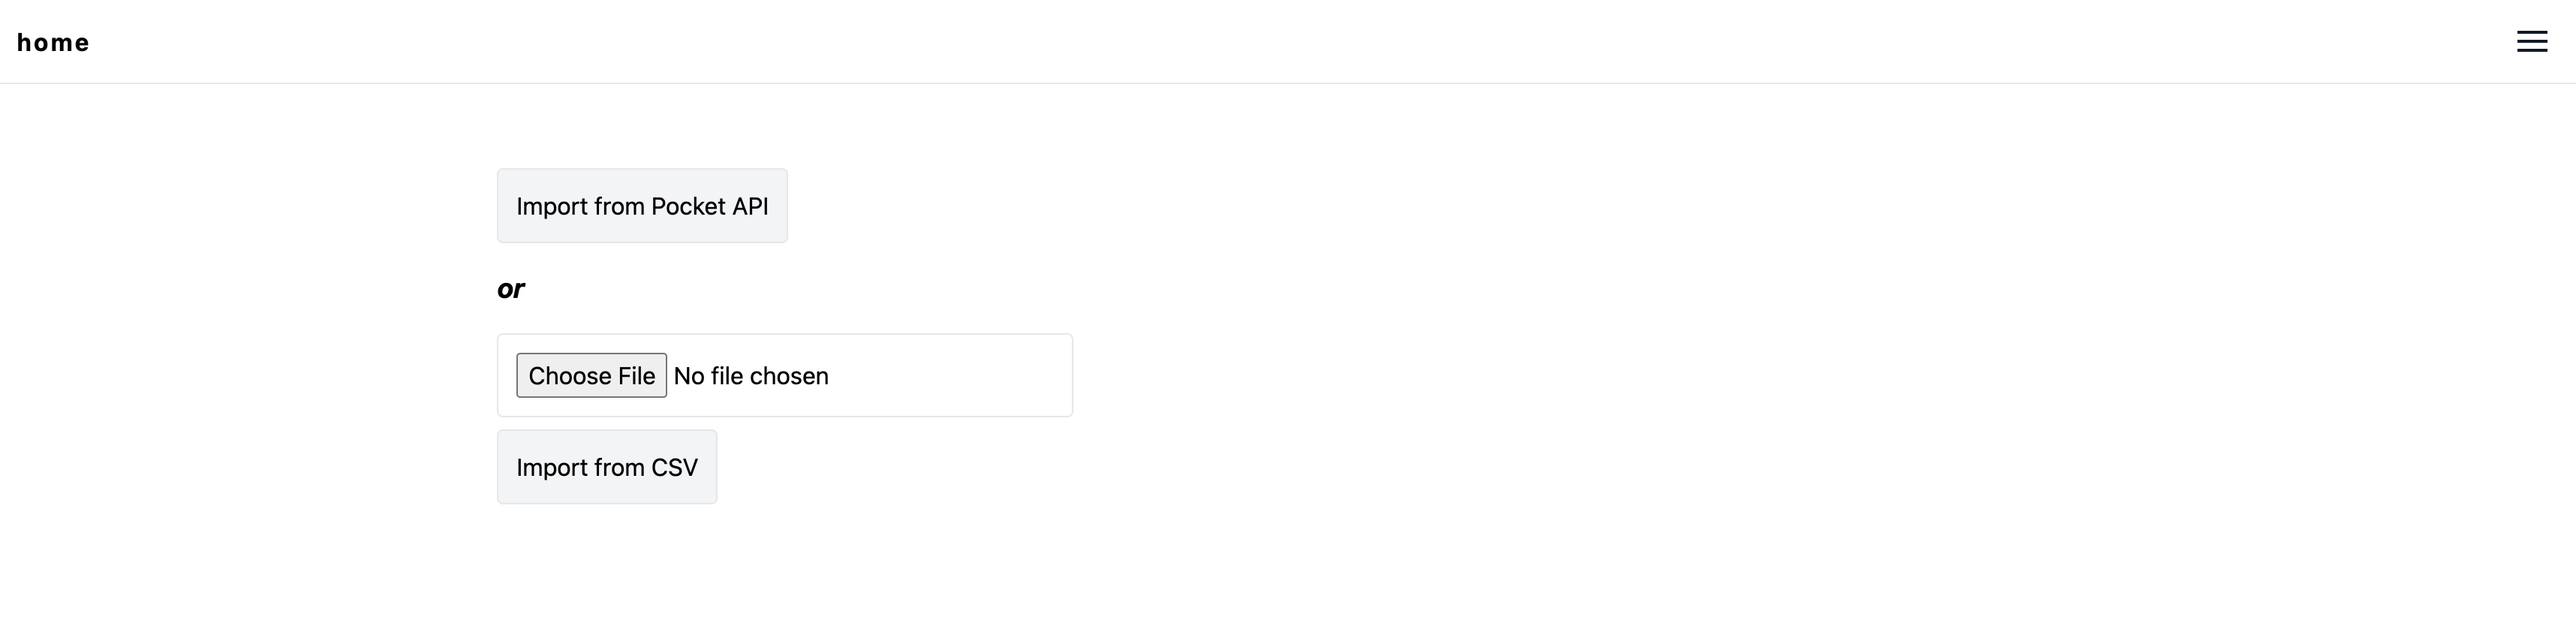
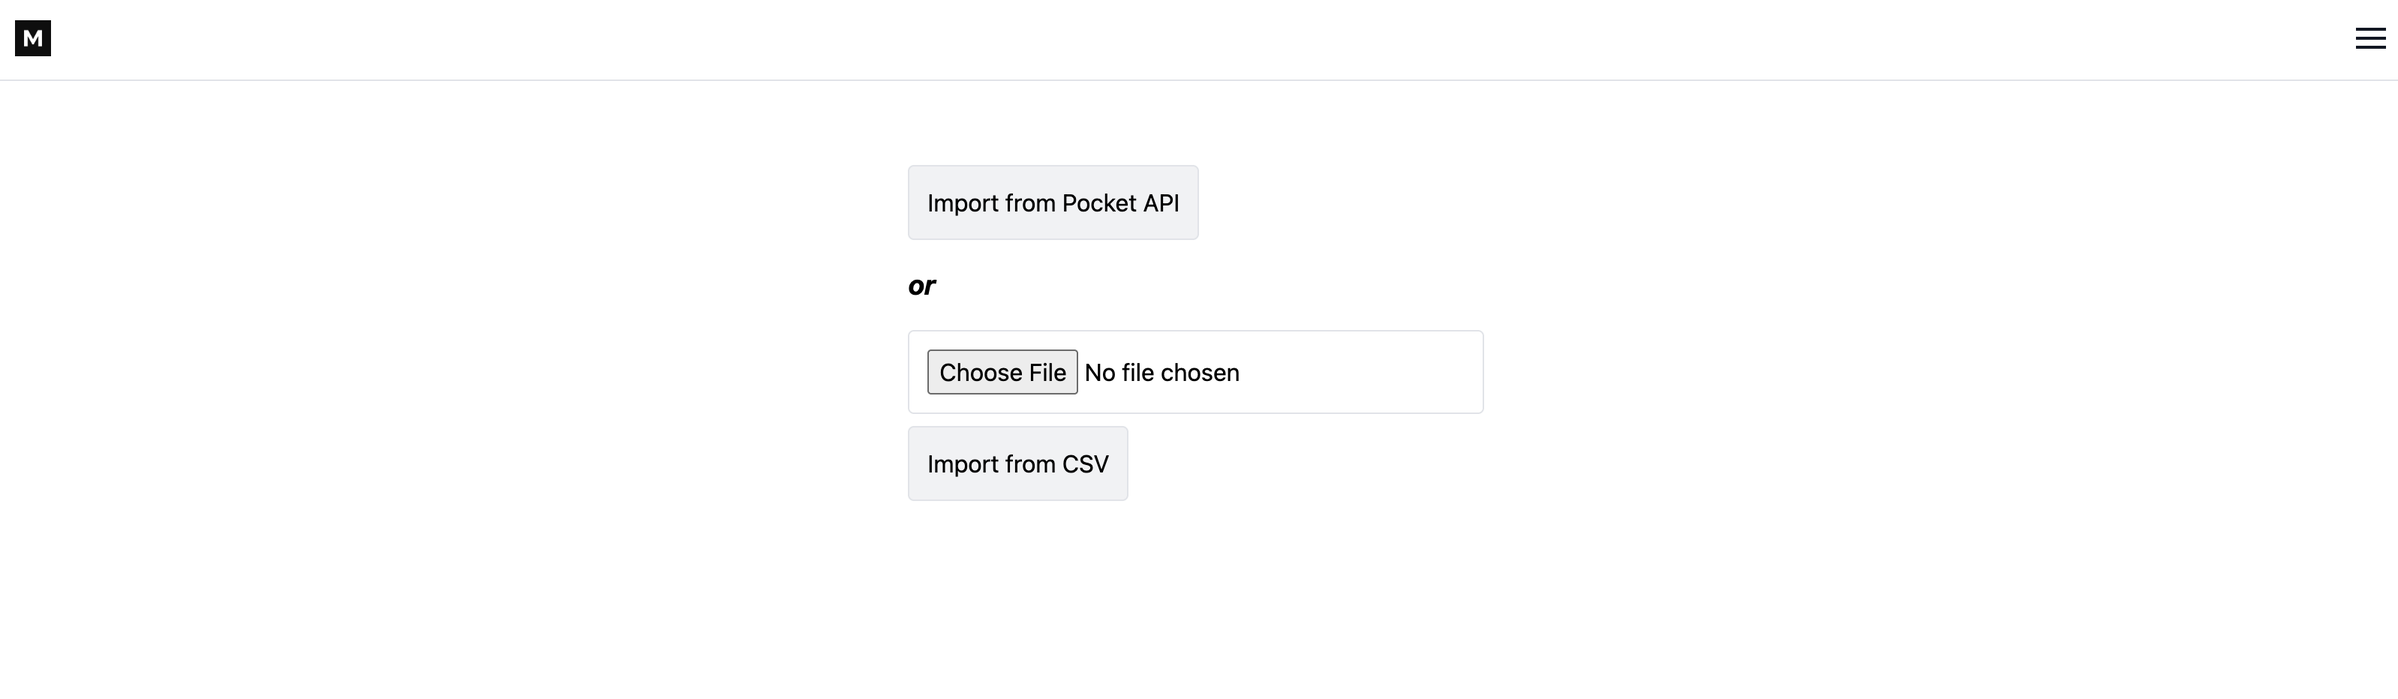
layout and updated screenshots

diff --git a/routes/pocket/import.tsx b/routes/pocket/import.tsx
@@ -39,7 +39,7 @@ export const handler = define.handlers<ImportProps>({
 
 export default function PocketImport({ data }: PageProps<ImportProps>) {
   return (
-    <div className="flex flex-col gap-4 m-8">
+    <div className="flex flex-col gap-4 m-8 mx-auto">
       <form method="post">
         <input type="hidden" name="type" value="api" />
         <button type="submit">
